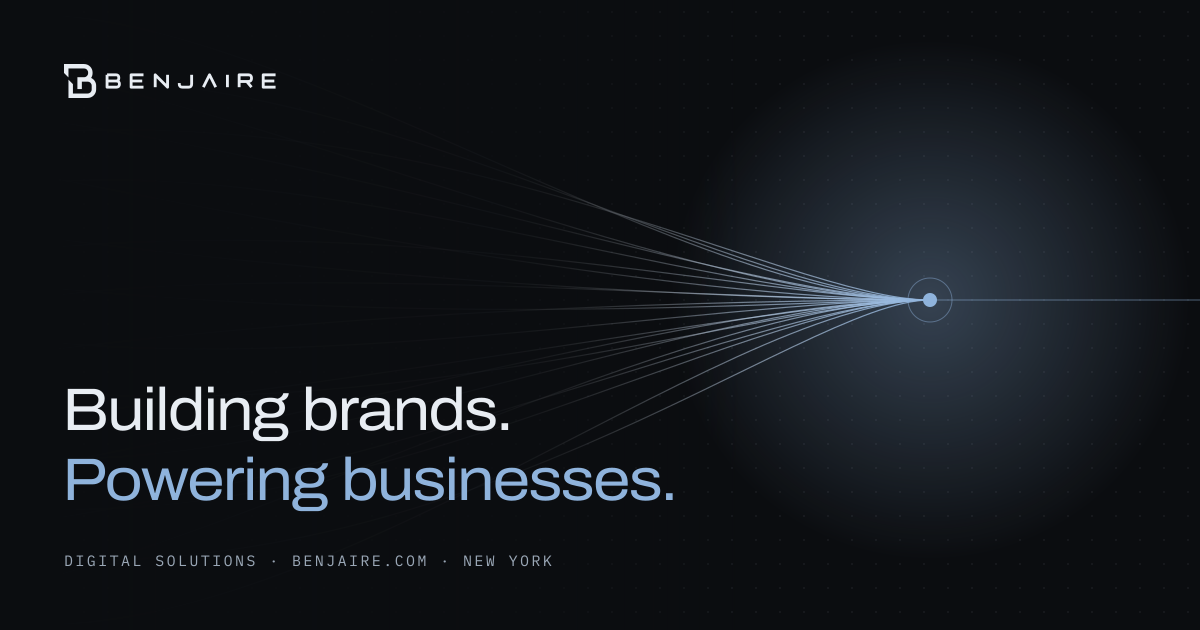
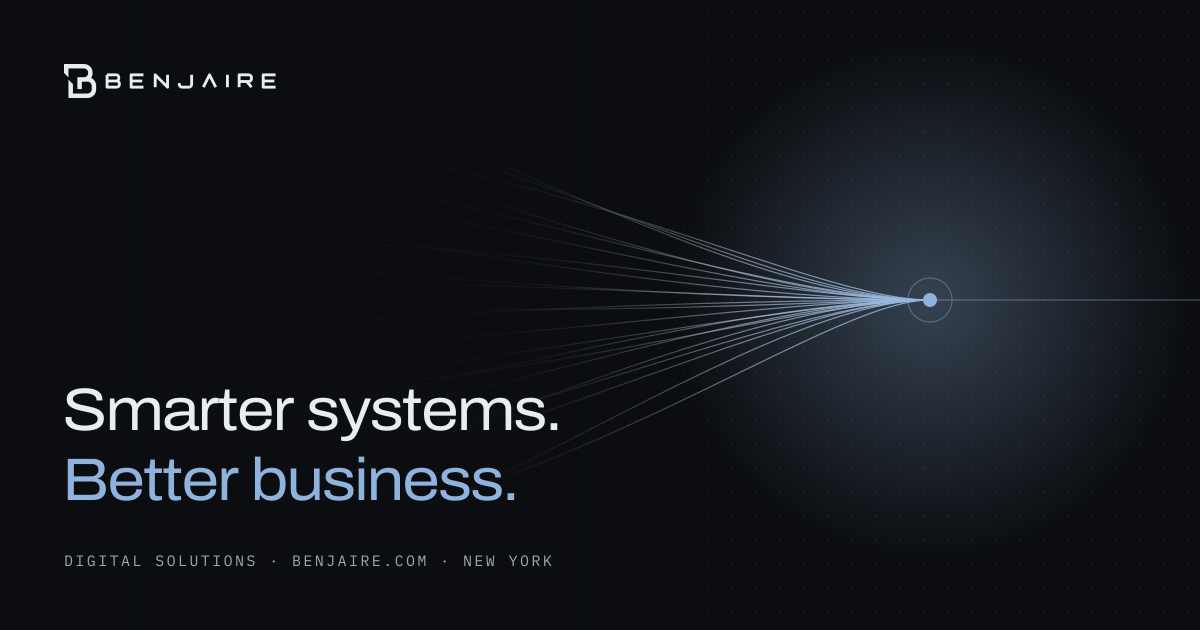
feat(copy): Digital Solutions company copy, new slogan and share cards
Company description, meta description and boilerplate describe one
business. The slogan lives in SITE.slogan (title, share alt, schema,
home hero): "Smarter systems. Better business." Both OG cards are
regenerated.

Claude-Session: https://claude.ai/code/session_01VCn2HZdKmrwAzFvhjLz59J

Changed region(s): [[0.0308, 0.6032, 0.555, 0.8143]]

diff --git a/site/src/site.ts b/site/src/site.ts
@@ -7,13 +7,16 @@ export const SITE = {
   // Canonical company description: homepage lead and Organization schema.
   // Reuse it word for word on company profiles; don't paraphrase per page.
   description:
-    'Benjaire is a New York company developing consumer brands and digital solutions that combine technology, design, and business innovation. It operates two business pillars, Digital Solutions and Consumer Brands, under one identity.',
+    'Benjaire is a New York company that builds workflow automation and digital systems for service firms. Its first product is Benjaire Flow, the inquiry system that makes sure every inquiry is answered on time.',
   // Default meta description (120 to 160 characters).
   metaDescription:
-    'Benjaire is a New York company developing consumer brands and digital solutions that combine technology, design, and business innovation.',
+    'Benjaire is a New York company that builds workflow automation and digital systems for service firms, starting with Benjaire Flow.',
   // Short boilerplate for footers, social bios and directories.
   boilerplate:
-    'Benjaire develops digital solutions and consumer brands that combine technology, design and business innovation. Based in New York.',
+    'Benjaire builds workflow automation and digital systems for service firms. Based in New York.',
+  // Company slogan: title tag, share card, Organization schema and home hero.
+  // The hero splits it at the full stop. Keep scripts/build-og.mjs in sync.
+  slogan: ['Smarter systems.', 'Better business.'],
   url: 'https://benjaire.com',
   email: 'contact@benjaire.com',
   location: 'New York, NY',

diff --git a/site/worker/lib.test.ts b/site/worker/lib.test.ts
@@ -87,7 +87,7 @@ test('builds a valid plain-text MIME message', async () => {
     from: { name: 'Benjaire website', email: 'website@benjaire.com' },
     to: 'inbox@example.com',
     replyTo: { name: 'José "Q" Pérez', email: 'jose@example.com' },
-    subject: '[Brand Collaboration] José Pérez',
+    subject: '[Partnership] José Pérez',
     text: 'Hola — línea uno\nline two',
     messageId: '<abc@benjaire.com>',
     date: new Date('2026-10-13T00:00:00Z'),
@@ -102,7 +102,7 @@ test('builds a valid plain-text MIME message', async () => {
   const decoded = new TextDecoder().decode(Uint8Array.from(atob(body.replace(/\r\n/g, '')), (c) => c.charCodeAt(0)));
   assert.equal(decoded, 'Hola — línea uno\nline two');
   const subject = head.match(/^Subject: =\?UTF-8\?B\?(.+)\?=$/m)![1];
-  assert.equal(new TextDecoder().decode(Uint8Array.from(atob(subject), (c) => c.charCodeAt(0))), '[Brand Collaboration] José Pérez');
+  assert.equal(new TextDecoder().decode(Uint8Array.from(atob(subject), (c) => c.charCodeAt(0))), '[Partnership] José Pérez');
 });
 
 test('fallback payment links match the site buy buttons', () => {
